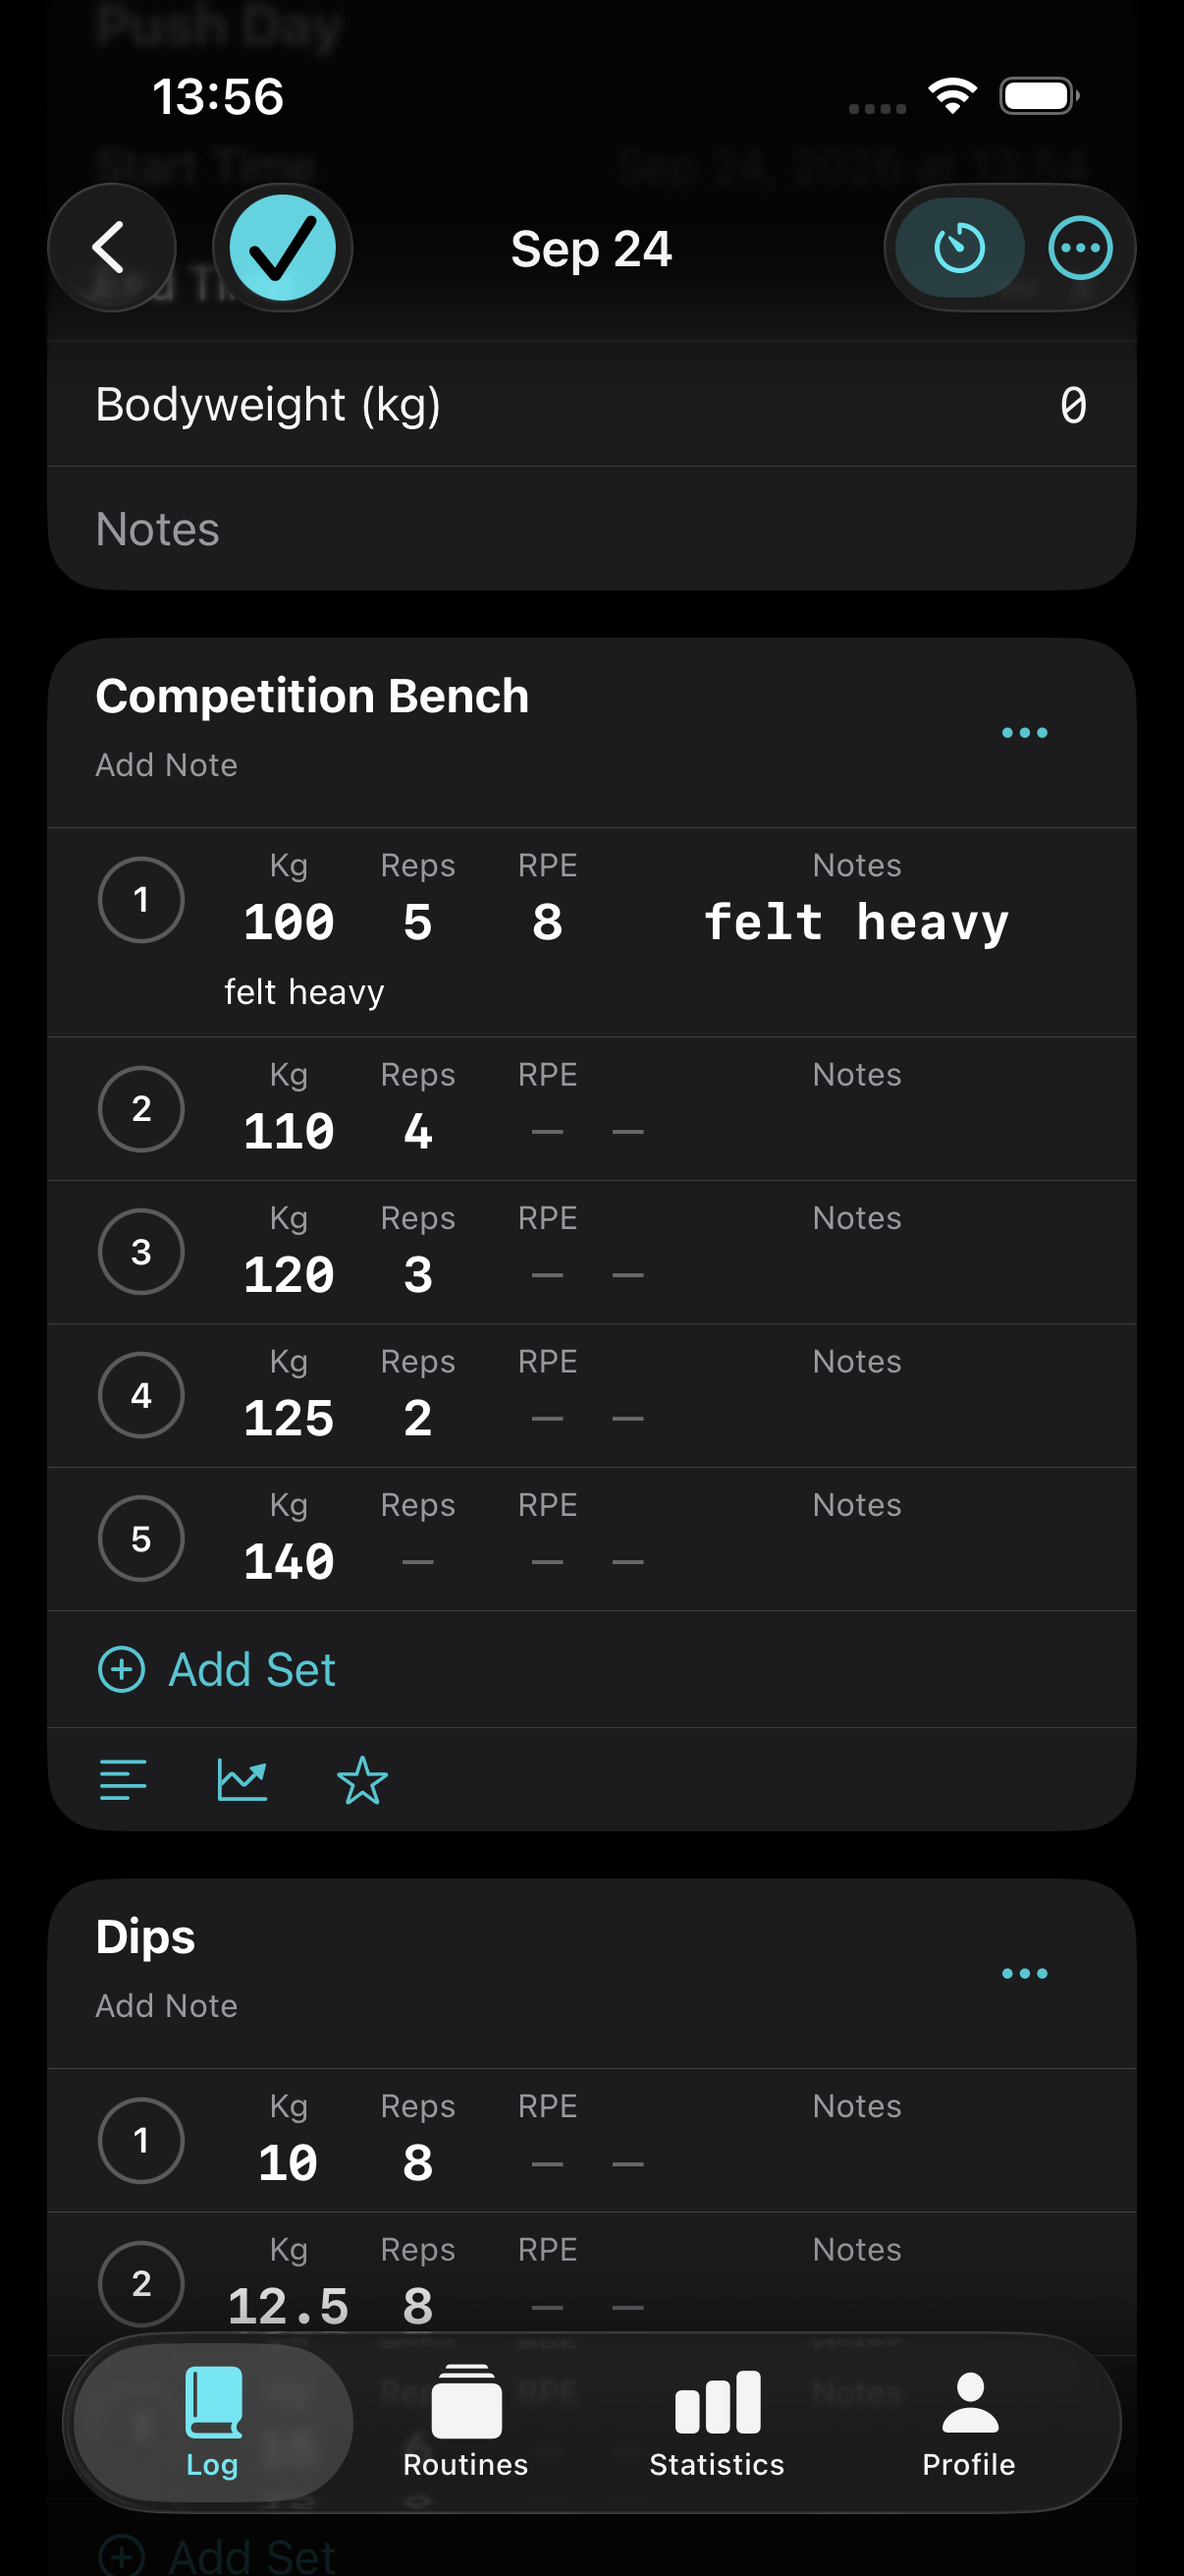
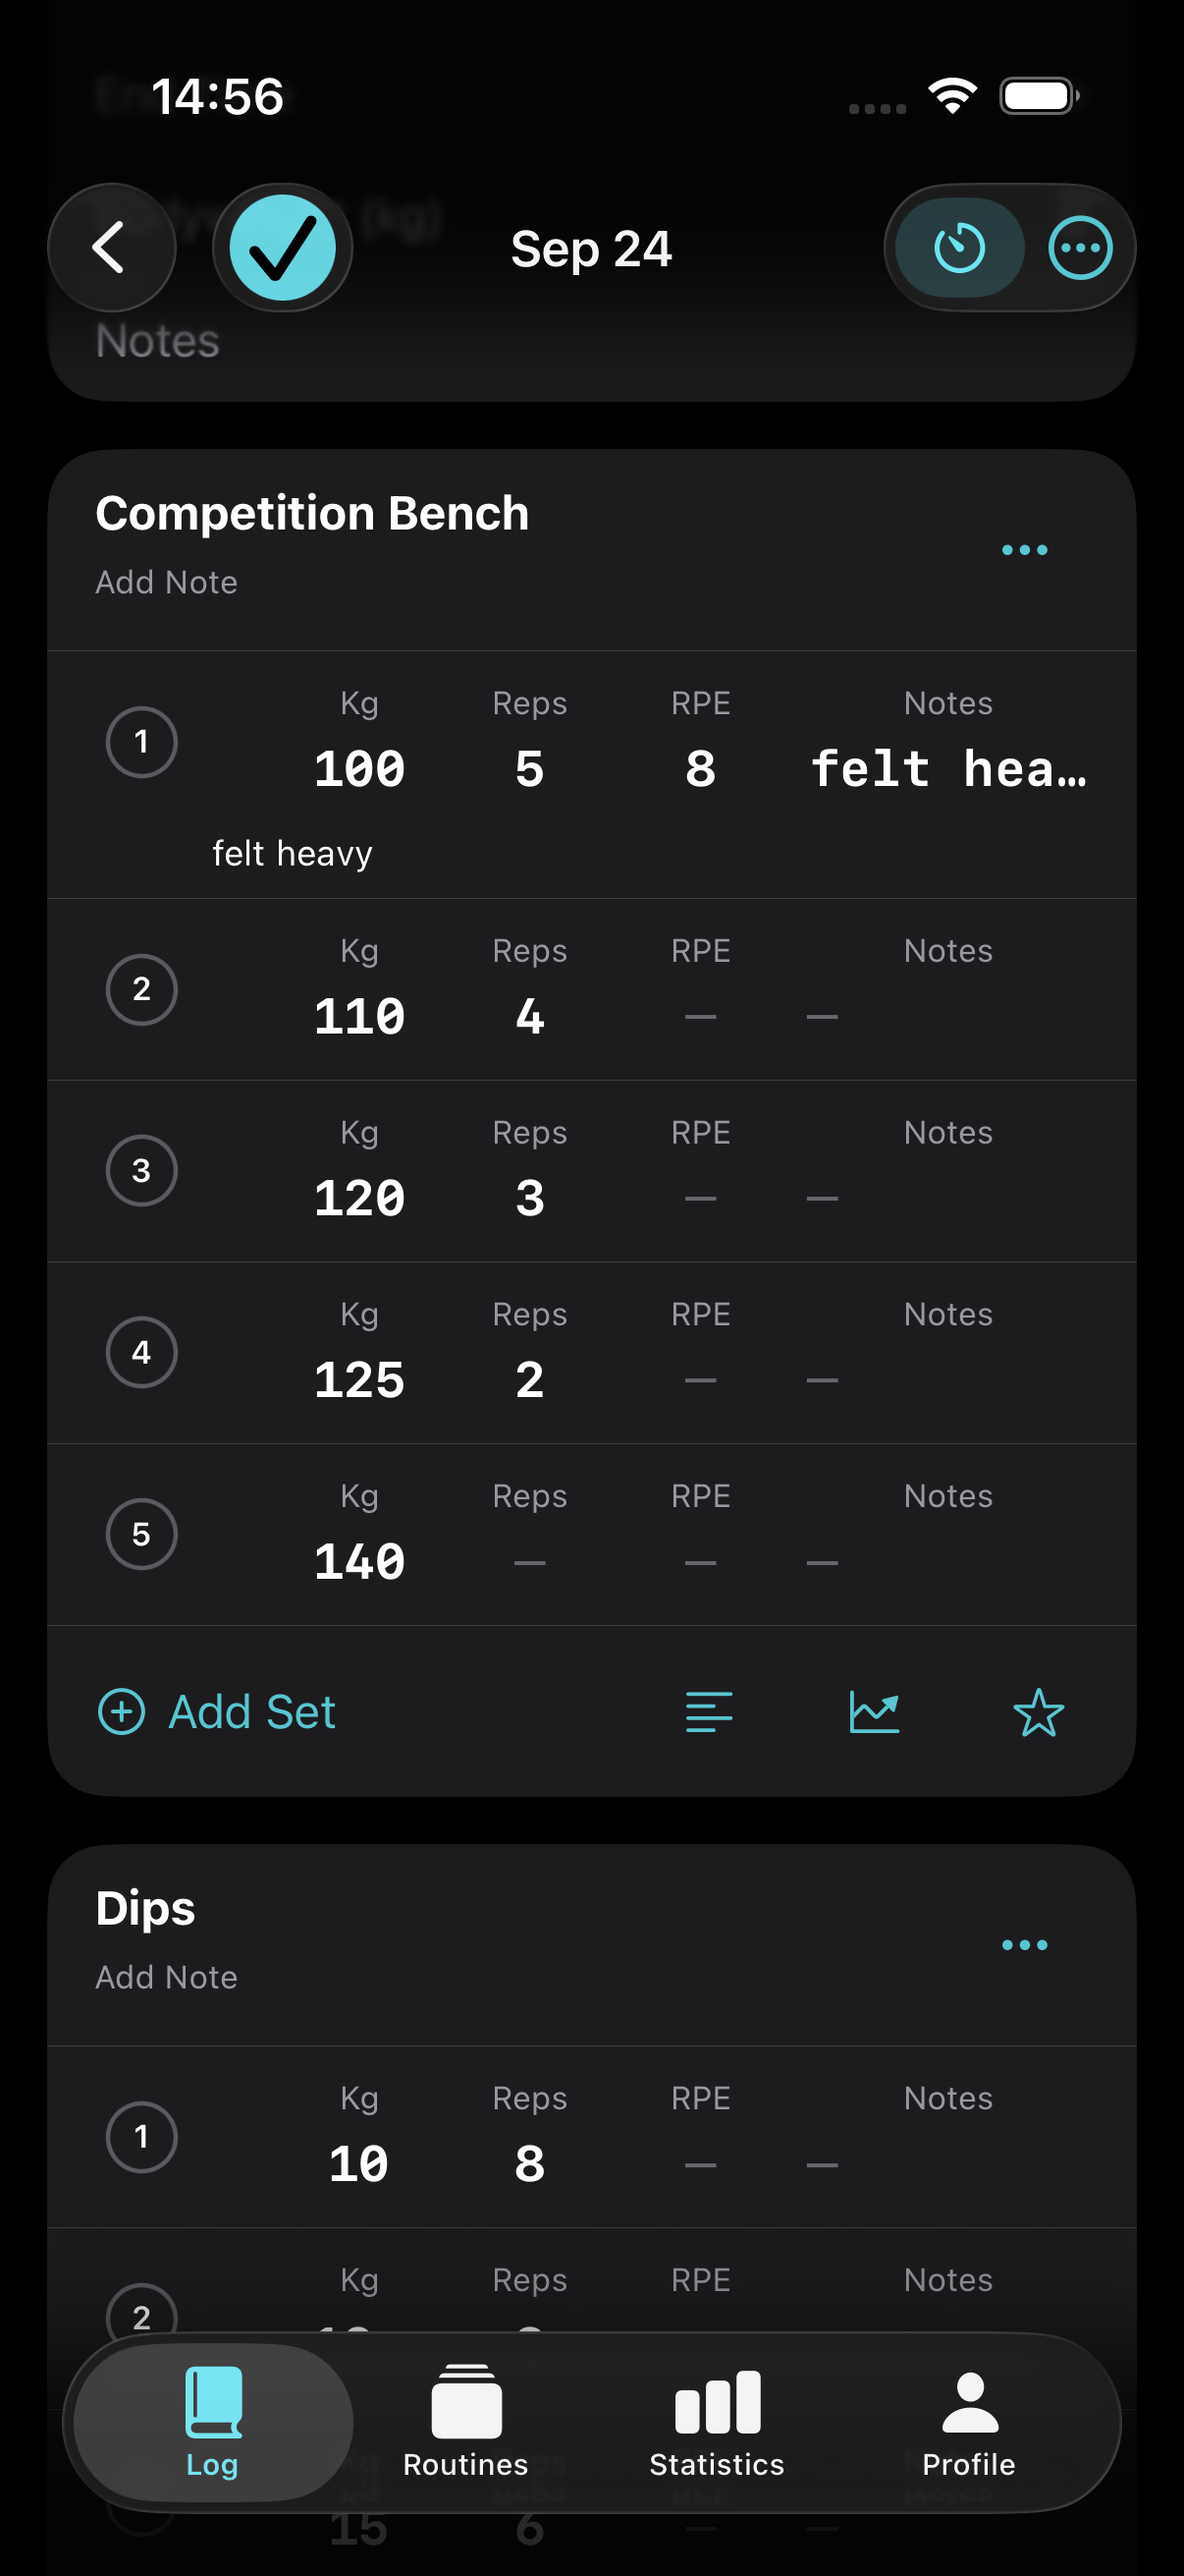
Docs + captures: the card legibility pass (1.1.1)

diff --git a/docs/BUILD-REPORT.md b/docs/BUILD-REPORT.md
@@ -20,9 +20,9 @@ Gate: `scripts/mac-tests.sh` — build, the unit suite, then the UI suite
 
 ## Build status
 
-**Status: the whole Mac gate is green at commit `f777dbc`** — `** BUILD
-SUCCEEDED **`, 36/36 unit tests, 10/10 UI tests including the in-simulator
-offline drill, in one `scripts/mac-tests.sh` run (§1.1 and §0.1). The dark-mode visual
+**Status: the whole Mac gate is green at commit `ff1cb43`** — `** BUILD
+SUCCEEDED **`, 36/36 unit tests, **12/12 UI tests** including the in-simulator
+offline drill, in one `scripts/mac-tests.sh` run (§1.1, §0.1 and §0.3). The dark-mode visual
 pass covers every screen against the 17 reference screenshots (§4), and the
 Dynamic Type / accessibility checks are in §5. What cannot be shown in a
 simulator is listed as device-only and is never claimed to work (§6).
@@ -314,6 +314,35 @@ from `383e39d` through the Mac's GUI session (ad-hoc profile valid to
 over HTTPS and matches, and the shipped binary contains the new copy ("Done
 finishes the workout and saves it.", "Replace Exercise"). Install page:
 <https://replog.eamonmckiernan.im/replog/>
+
+---
+
+## 0.3 Workout card legibility (owner report, 2026-09-24, against a reference screenshot)
+
+"increase the spacing for columns and rows a bit more, and shrink the size of
+the set number circle - everything feels a bit cramped / overcrowded. move the
+add note, graph, and star icon at the bottom of a workout to the right of the
+row like in repcount."
+
+| What | Before | Now |
+|---|---|---|
+| Set number circle | 28 pt in a 40 pt slot, `.footnote` number | 23 pt in a 32 pt slot, `.caption2` number |
+| Column gap | none — cells butted together at their 44 pt minimum | 14 pt between cells, same 44 pt minimum width |
+| Set row height | 6 pt above/below | 11 pt, plus 4 pt between a column's label and its value |
+| Row inset | 12 pt | 16 pt, matching the header and the card's own inset |
+| Second-line set note | 48 pt inset | 40 pt, following the smaller circle slot |
+| Exercise icons | their own row under "Add Set", left-aligned, no tap target | on the **"Add Set" row, right-aligned**, each in a 34 pt frame with a content shape and its own identifier |
+| Card header | 10 pt above/below | 12 pt |
+
+The label/value gap was changed in **both** the read-only column and the
+editing cell, so a typed row and a finished row line up identically. No
+identifier used by a test changed; the icon buttons gained identifiers
+(`exercise-note-button`, `exercise-history-button`, `exercise-pr-button`).
+
+**Evidence:** the visual tour at `ff1cb43` — `docs/visual/11-active-workout-populated.png`
+(the row rhythm, the smaller circle, and the icons on the Add Set row) and
+`docs/visual/07-active-workout.png` (a populated card top to bottom). Gate:
+`** BUILD SUCCEEDED **`, 36/36 unit, 12/12 UI, `All Mac tests passed.`
 
 ---
 
